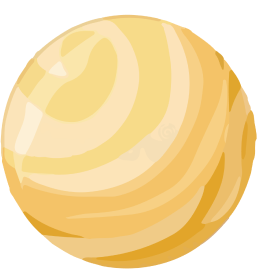
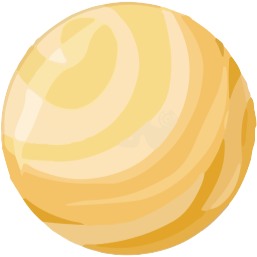
+

diff --git a/src/plugins/canvas.ts b/src/plugins/canvas.ts
@@ -7,7 +7,7 @@ let topScreen: number
 let bottomScreen: number
 let positionX: number
 let positionY: number
-const imgSrc = 'https://static.igem.wiki/teams/5503/design-materials/movingplanet.webp'
+const imgSrc = 'https://static.igem.wiki/teams/5503/design-materials/nodeplanet.webp'
 const img = new Image()
 img.src = imgSrc
 const imgWidth = 75
@@ -276,11 +276,11 @@ export function draw() {
   circularArc(1220, 5760, ctx, canvasH, 2, 2)
   verticalLine(1250, 5760, 7100, ctx, canvasH)
   if (positionY < 3200) {
-    img.src = 'https://static.igem.wiki/teams/5503/design-materials/movingplanet.webp'
+    img.src = 'https://static.igem.wiki/teams/5503/design-materials/nodeplanet.webp'
   } else if (positionY >= 3200 && positionY < 5700) {
-    img.src = 'https://static.igem.wiki/teams/5503/design-materials/movingcell.webp'
+    img.src = 'https://static.igem.wiki/teams/5503/design-materials/nodecell.webp'
   } else {
-    img.src = 'https://static.igem.wiki/teams/5503/design-materials/movingprotein.webp'
+    img.src = 'https://static.igem.wiki/teams/5503/design-materials/nodeprotein.webp'
   }
   ctx.drawImage(img, positionX - imgWidth / 2, positionY - imgHeight / 2, imgWidth, imgHeight)
   ctx.stroke()

diff --git a/src/components/TextContent.vue b/src/components/TextContent.vue
@@ -14,7 +14,7 @@
          :class='{ active: activeAnchor == `#${title}` }'
          @click.prevent='scrollToSection(title)'>{{ title }}</a>
     </nav>
-    <div class='text-area' :style="{ marginTop: (-navHeight-22) + 'px' }">
+    <div class='text-area' :style="{ marginTop: (-navHeight-40) + 'px' }">
       <slot/>
     </div>
     <div class='background-image-container'>

diff --git a/src/styles/layout.css b/src/styles/layout.css
@@ -13,7 +13,7 @@
     max-width: 600px;
     display: flex;
     justify-content: center;
-    margin-top: 48px;
+    margin-top: 49px;
     margin-bottom: 90px;
     -webkit-user-select: none;
     z-index: 2;

diff --git a/src/styles/anchor.css b/src/styles/anchor.css
@@ -16,6 +16,7 @@ nav {
     padding-top: 30px;
     padding-bottom: 30px;
     -webkit-user-select: none;
+    margin-bottom: 20px;
 }
 
 nav a {
